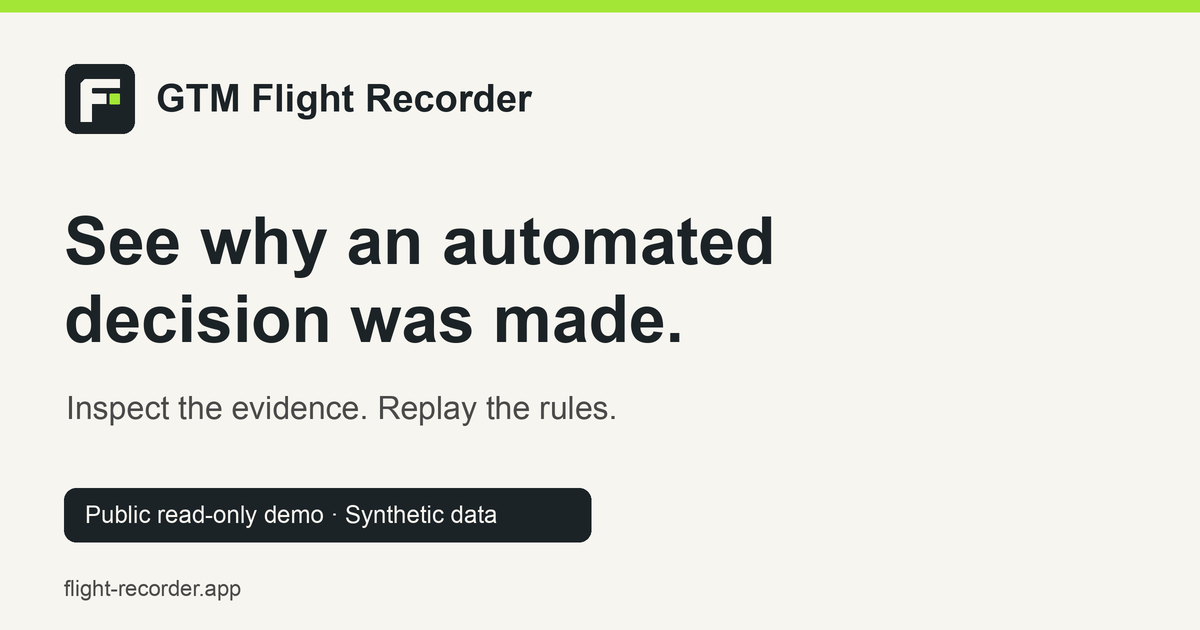
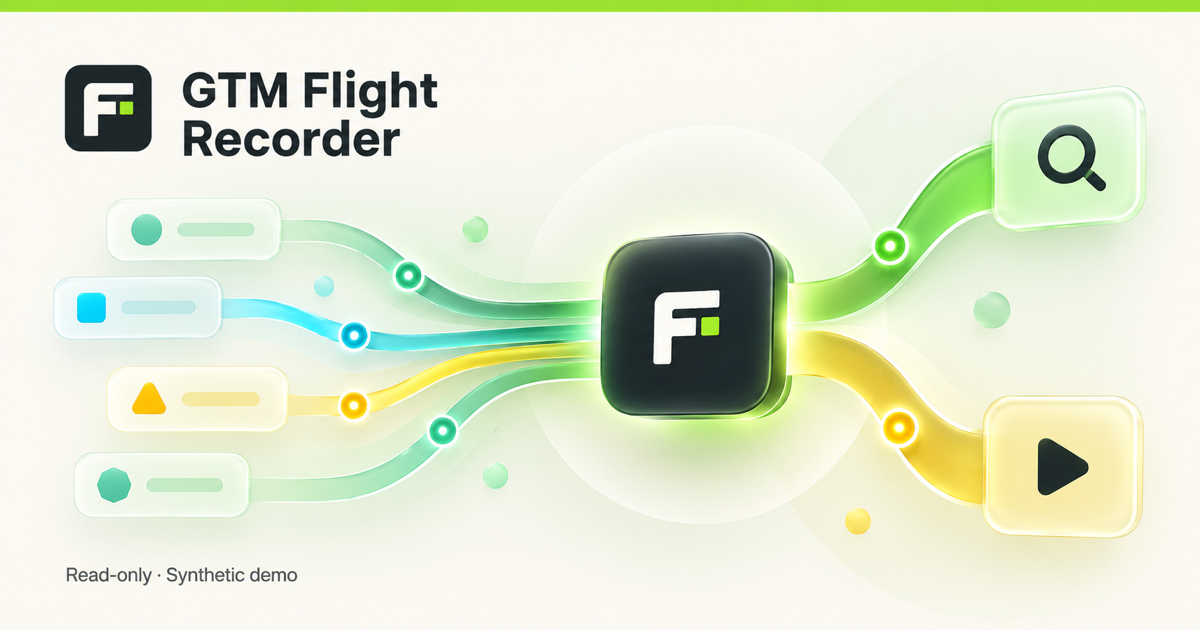
Make the sharing image more colorful and visual

diff --git a/src/flight_recorder/web/templates/base.html b/src/flight_recorder/web/templates/base.html
@@ -8,7 +8,7 @@
   {% set preview_description = "Inspect and replay account-prioritization decisions using preserved evidence and rules. Public read-only demo with synthetic data." %}
   {% set preview_url = "https://flight-recorder.app" ~ request.url.path %}
   {% set preview_image = "https://flight-recorder.app/static/brand/sharing-preview.png" %}
-  {% set preview_image_alt = "GTM Flight Recorder. See why an automated decision was made. Public read-only demo with synthetic data." %}
+  {% set preview_image_alt = "GTM Flight Recorder. Colorful signals flow into a decision capsule and branch toward inspection and replay. Read-only synthetic demo." %}
   <meta name="description" content="{{ preview_description }}">
   <link rel="canonical" href="{{ preview_url }}">
   <meta property="og:type" content="website">
